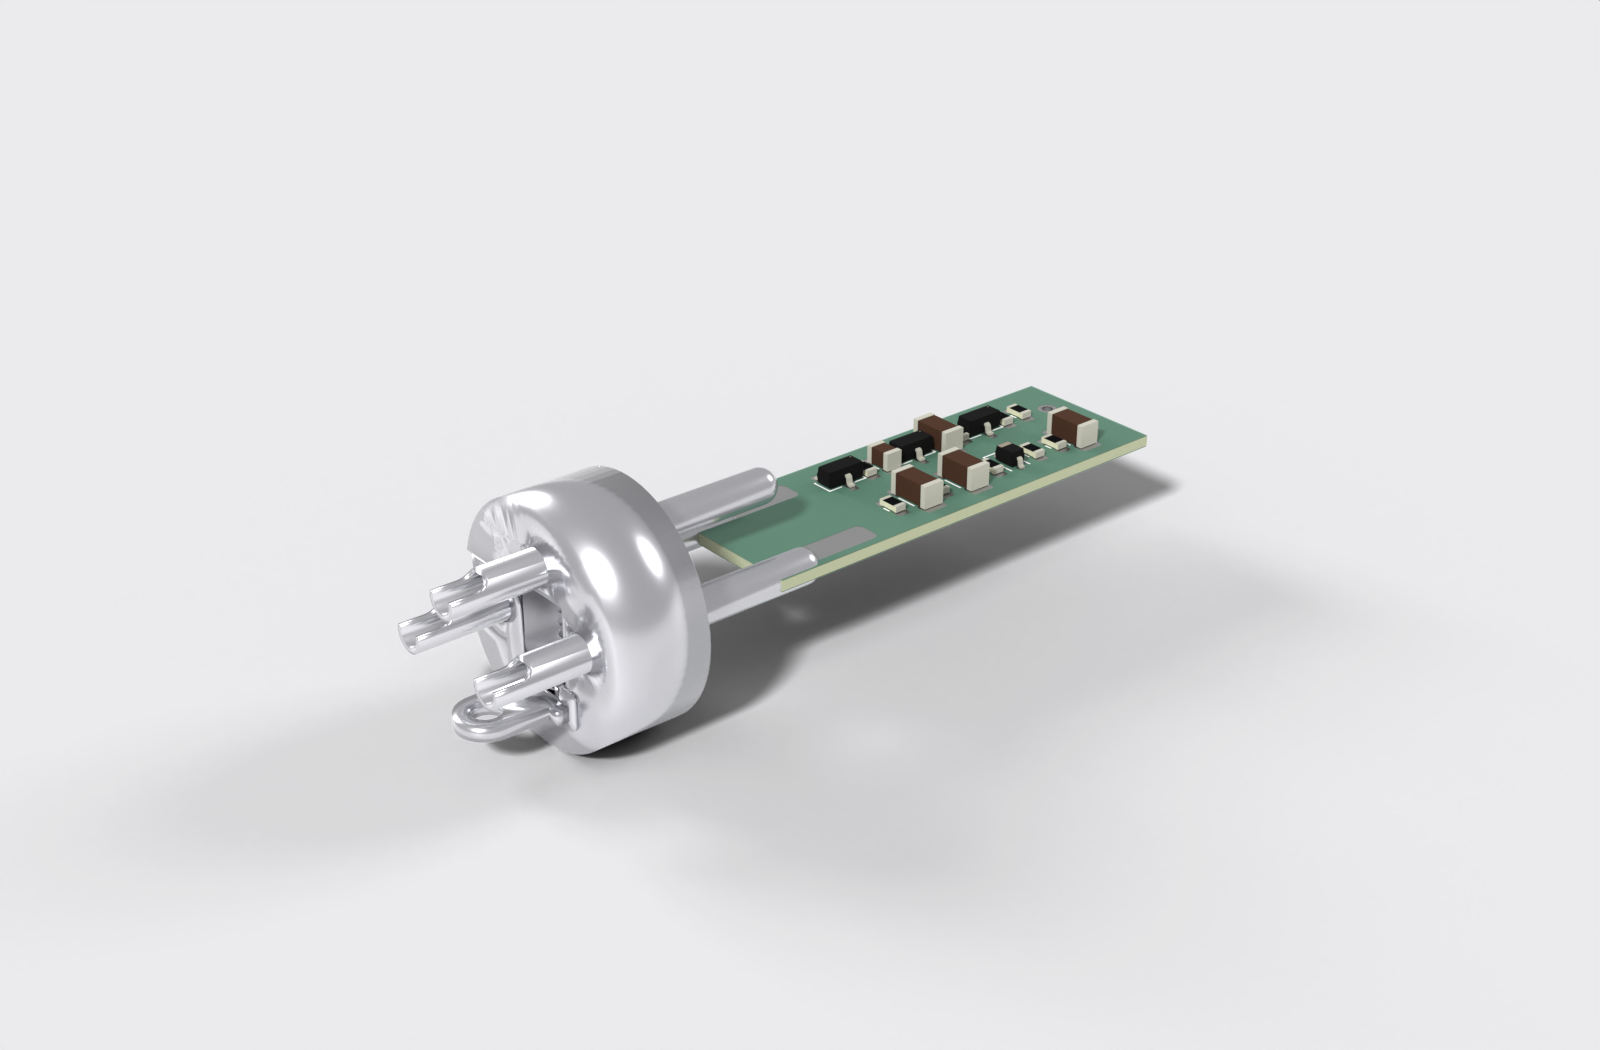
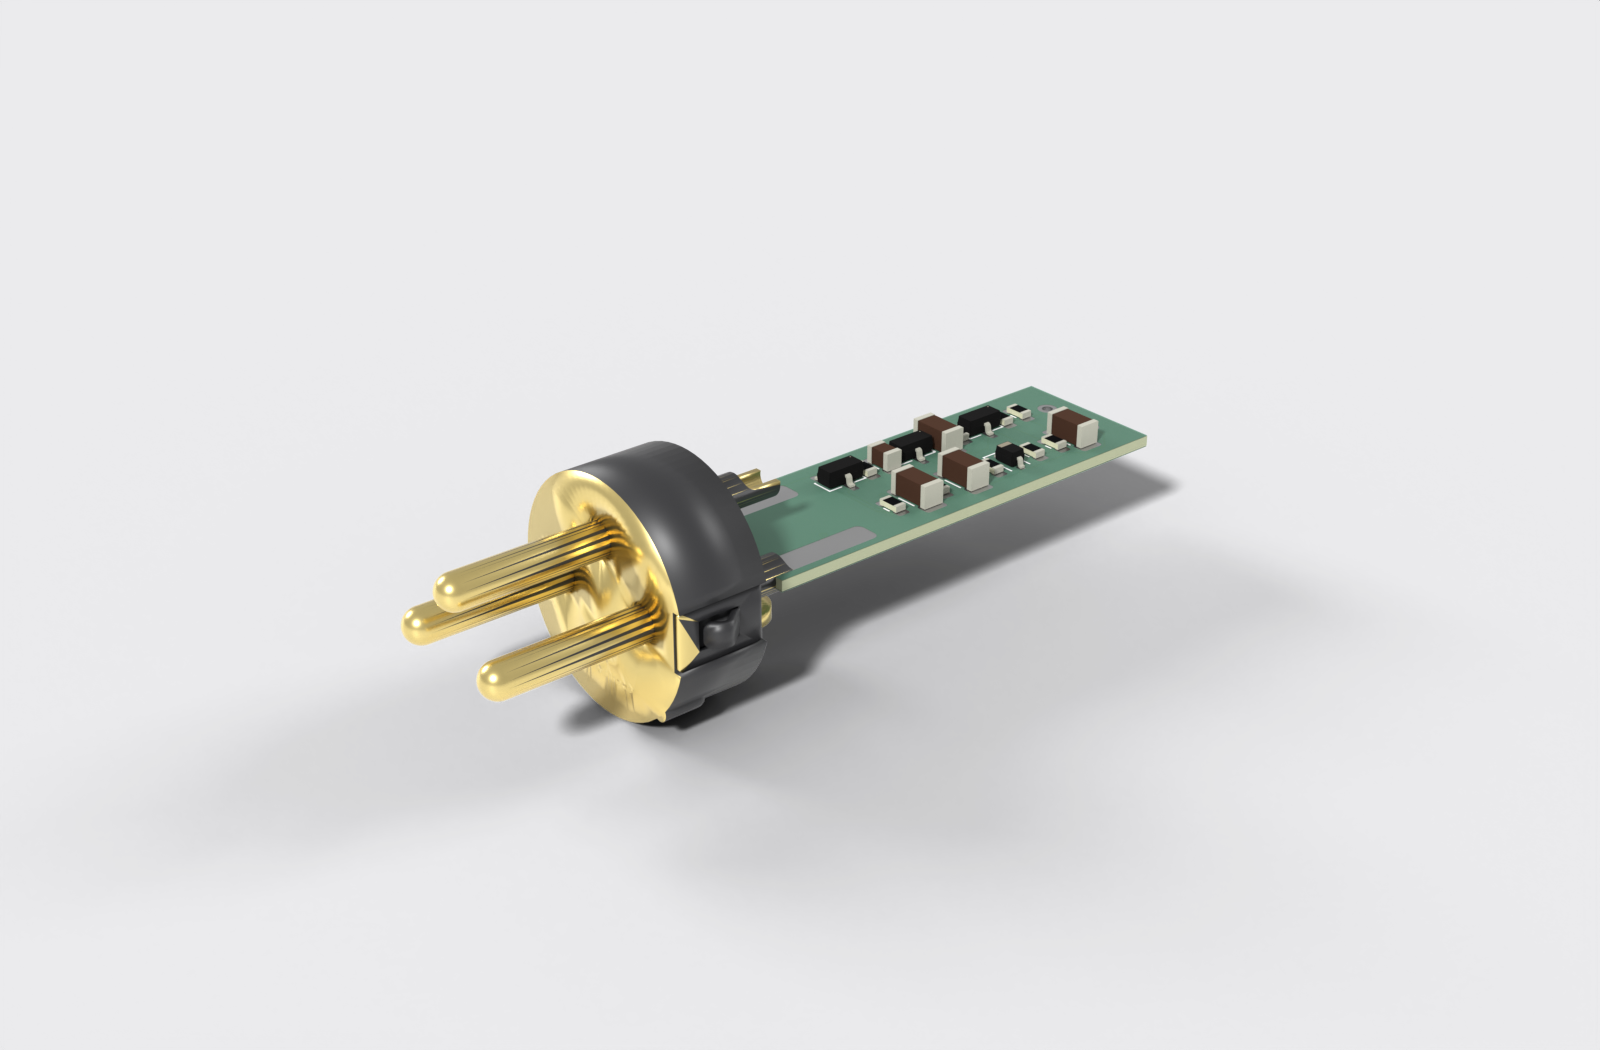
Recreate schematic as a proper wired diagram; fix connector render
- images/schematic.png: replace the net-label KiCad export (which read as
  "nothing connected") with a fully wired schematic drawn from netlist.py via
  schemdraw (scripts/gen_schematic.py) -> SVG -> PNG (Inkscape). Topology wired
  by transistor anchor, verified identical to the board netlist.
- images/board_with_connector.png: flip the XLR connector so the board is on the
  solder-cup end and the mating pins are free (they plug into the audio device);
  two-tone the connector black body / gold pins; render on the GPU (OptiX).

Changed region(s): [[0.25, 0.3962, 0.5312, 0.7314]]

diff --git a/scripts/gen_schematic.py b/scripts/gen_schematic.py
@@ -1,0 +1,165 @@
+#!/usr/bin/env python3
+"""
+Draw a properly wired schematic of the P48 -> 8V PIP adapter with schemdraw and
+save it to images/schematic.png (rasterized via Inkscape).  Every part is wired
+by transistor anchor (base/emitter/collector), so the topology matches
+netlist.py exactly:
+
+  GND    J1.1 MIC1.2 D1.A C1.2 C3.2 C4.2 C5.2 R4.2 R7.2 Q2.C Q3.C
+  P2     J1.2 R1.1                 P3   J1.3 R9.1 Q1.C R2.1
+  VPIP   Q1.E C1.1 C5.1 R10.1 R3.1 R6.1
+  VREF   R9.2 D1.K C4.1 R8.1       Q1B  R8.2 Q1.B
+  MICOUT MIC1.1 R10.2 C2.1
+  Q2B    R3.2 R4.1 C2.2 Q2.B       Q2E  R1.2 Q2.E
+  Q3B    R6.2 R7.1 C3.1 Q3.B       Q3E  R2.2 Q3.E
+
+    python scripts/gen_schematic.py
+"""
+import os
+import shutil
+import subprocess
+
+import schemdraw
+import schemdraw.elements as elm
+
+ROOT = os.path.dirname(os.path.dirname(os.path.abspath(__file__)))
+OUT = os.path.join(ROOT, "images", "schematic.png")
+
+INK = "#16232e"
+NET = "#8a1c1c"
+schemdraw.config(unit=2.6, fontsize=14, lw=2.0, color=INK)
+d = schemdraw.Drawing(show=False)
+
+RAIL_Y = 0.0
+BY = -3.4          # base / MICOUT row
+GNDY = -7.0
+
+
+def dot(p):
+    d.add(elm.Dot().at(p))
+
+
+def ground():                       # ground at the drawing cursor
+    d.add(elm.Ground())
+
+
+def ground_at(p):
+    d.add(elm.Ground().at(p))
+
+
+def buffer(bx, refs, sig=None):
+    """A common-collector buffer: R_bias divider from VPIP + R_emitter to a
+    phantom pin.  refs = (Rbias_hi, Rbias_lo, Q, Remit, phantom).  sig: a
+    callable drawing the base input (C-coupled signal or C to gnd)."""
+    rhi, rlo, q, remit, phantom = refs
+    dot((bx, BY))
+    dot((bx, RAIL_Y))
+    d.add(elm.Resistor().at((bx, RAIL_Y)).down().to((bx, BY)).label(rhi, "left"))
+    d.add(elm.Resistor().at((bx, BY)).down().to((bx, GNDY)).label(rlo, "left"))
+    ground()
+    if sig:
+        sig(bx)
+    d.add(elm.Line().at((bx, BY)).right().length(1.7))
+    t = elm.BjtPnp(circle=True).anchor("base")
+    d.add(t)
+    d.add(elm.Label().at((t.collector[0], BY + 1.7)).label(q, fontsize=13))
+    d.add(elm.Line().at(t.collector).down().to((t.collector[0], GNDY)))
+    ground()
+    d.add(elm.Line().at(t.emitter).right().length(0.5))
+    d.add(elm.Resistor().right().label(remit, "top"))
+    d.add(elm.Tag().right().label(phantom, color=NET))
+
+
+# ===========================================================================
+# XLR connector J1 (far left): pin1 GND, pin2 P2 (hot), pin3 P3 (cold)
+# ===========================================================================
+JX = -11.5
+d += elm.Label().at((JX + 0.3, 3.4)).label("J1  ·  Neutrik XLR3", fontsize=12, color="#555")
+for y, num, name in ((2.4, "2", "P2"), (0.8, "3", "P3")):
+    d += elm.Dot(open=True).at((JX, y))
+    d += elm.Line().right().length(1.4).label(num, "top", fontsize=11)
+    d += elm.Tag().label(name, color=NET)
+d += elm.Dot(open=True).at((JX, -0.9))
+d += elm.Line().right().length(1.1).label("1", "bottom", fontsize=11)
+d += elm.Ground()
+
+# ===========================================================================
+# REFERENCE + REGULATOR -> VPIP
+# ===========================================================================
+VX, VY = -5.8, 3.0
+d += elm.Tag().at((VX - 3.2, VY)).left().label("P3", color=NET)
+d += elm.Resistor().at((VX - 3.2, VY)).right().to((VX, VY)).label("R9\n100k")
+dot((VX, VY))
+d += elm.Label().at((VX - 0.15, VY + 1.5)).label("VREF", color=NET, fontsize=12)
+# D1 zener on a short stub to the left
+d += elm.Line().at((VX, VY)).left().length(1.2)
+d += elm.Zener().down().label("D1\n8.2V", "left").reverse()
+ground()
+# C4 straight down from VREF
+d += elm.Capacitor().at((VX, VY)).down().label("C4\n22µF", "right")
+ground()
+# R8 : VREF -> Q1 base
+d += elm.Resistor().at((VX, VY)).right().label("R8\n10k")
+d += (q1 := elm.BjtNpn(circle=True).anchor("base").label("Q1\nMMBT3904", "right"))
+d += elm.Line().at(q1.collector).up().length(1.8)
+d += elm.Tag().up().label("P3", color=NET)
+d += elm.Line().at(q1.emitter).down().to((q1.emitter[0], RAIL_Y))
+RX0 = q1.emitter[0]
+dot((RX0, RAIL_Y))
+
+# column positions (left -> right)
+MX = RX0 + 5.2          # MICOUT / capsule bias
+HBX = MX + 3.8          # hot buffer divider
+CBX = HBX + 8.6         # cold buffer divider
+RX1 = CBX + 1.4         # rail end
+
+# ===========================================================================
+# VPIP rail (real drawn bus) + bypass caps
+# ===========================================================================
+d += elm.Line().at((RX0, RAIL_Y)).to((RX1, RAIL_Y)).linewidth(3.2)
+d += elm.Vdd().at((RX0, RAIL_Y)).label("VPIP", color=NET)
+for dx, name in ((1.5, "C1\n22µF"), (3.0, "C5\n10µF")):
+    dot((RX0 + dx, RAIL_Y))
+    d += elm.Capacitor().at((RX0 + dx, RAIL_Y)).down().label(name, "left")
+    ground()
+
+# ===========================================================================
+# CAPSULE BIAS + HOT BUFFER
+# ===========================================================================
+dot((MX, RAIL_Y))
+d += elm.Resistor().at((MX, RAIL_Y)).down().to((MX, BY)).label("R10\n6.8k", "right")
+dot((MX, BY))
+d += elm.Label().at((MX - 0.15, BY + 0.75)).label("MICOUT", color=NET, fontsize=12)
+d += elm.Mic().at((MX, BY)).down()
+ground()
+d += elm.Label().at((MX - 1.15, BY - 1.7)).label("MIC1\nAOM-5024", fontsize=12)
+# C2 : MICOUT -> Q2 base
+d += elm.Capacitor().at((MX, BY)).right().to((HBX, BY)).label("C2\n22µF", "top")
+
+buffer(HBX, ("R3\n100k", "R4\n100k", "Q2\nMMBT3906", "R1\n10k", "P2"))
+
+# ===========================================================================
+# COLD BUFFER (impedance match); C3 AC-grounds the base
+# ===========================================================================
+def c3_to_gnd(bx):
+    d.add(elm.Line().at((bx, BY)).left().length(1.7))
+    d.add(elm.Capacitor().down().to((bx - 1.7, GNDY)).label("C3\n22µF", "left"))
+    d.add(elm.Ground())
+
+buffer(CBX, ("R6\n100k", "R7\n100k", "Q3\nMMBT3906", "R2\n10k", "P3"), sig=c3_to_gnd)
+
+d += elm.Label().at(((RX0 + RX1) / 2, GNDY - 1.4)).label(
+    "P48 → 8 V PIP adapter   ·   impedance-balanced two-transistor buffer   ·   "
+    "nets per netlist.py", fontsize=12, color="#666")
+
+# ---- save + rasterize ----
+SVG = os.path.splitext(OUT)[0] + ".svg"
+d.save(SVG)
+print("wrote", SVG)
+ink = shutil.which("inkscape") or r"C:\Program Files\Inkscape\bin\inkscape.exe"
+if os.path.exists(ink):
+    subprocess.run([ink, SVG, "--export-type=png", "--export-filename=" + OUT,
+                    "--export-width=2600", "--export-background=#ffffff"], check=True)
+    print("wrote", OUT)
+else:
+    print("Inkscape not found; wrote SVG only:", SVG)

diff --git a/scripts/render_connector_blender.py b/scripts/render_connector_blender.py
@@ -19,18 +19,33 @@ from mathutils import Vector, Matrix
 GLB, CONN_STL, OUT = sys.argv[-3], sys.argv[-2], sys.argv[-1]
 
 def envf(k, d): return float(os.environ.get(k, d))
-CONN_ROTX = envf("CROTX", "90")     # lay connector axis from Z to Y
-CONN_ROTY = envf("CROTY", "180")    # roll: 2 contacts to the top face
+CONN_ROTX = envf("CROTX", "-90")    # lay connector axis from Z to Y (solder-cup end toward board)
+CONN_ROTY = envf("CROTY", "0")      # roll about the connector axis
 CONN_ROTZ = envf("CROTZ", "0")
 CONN_Y    = envf("CY", "-24.5")     # connector position along the board axis
 CONN_Z    = envf("CZ", "0.4")       # board mid-plane
 CAM_AZ    = envf("AZ", "50")
 CAM_EL    = envf("EL", "27")
 SAMPLES   = int(envf("SPP", "220"))
+BODY_THR  = envf("BODYTHR", "0.62") # radial threshold for the black body band
 
 bpy.ops.wm.read_factory_settings(use_empty=True)
 sc = bpy.context.scene
 sc.render.engine = "CYCLES"; sc.cycles.samples = SAMPLES; sc.cycles.use_denoising = True
+# Use the GPU (OptiX/CUDA) if available -- big speedup on an NVIDIA card.
+try:
+    prefs = bpy.context.preferences.addons["cycles"].preferences
+    for backend in ("OPTIX", "CUDA", "HIP", "ONEAPI"):
+        devs = prefs.get_devices_for_type(backend)
+        if devs:
+            prefs.compute_device_type = backend
+            for dev in devs:
+                dev.use = dev.type != "CPU"
+            sc.cycles.device = "GPU"
+            print("Cycles GPU:", backend)
+            break
+except Exception as e:
+    print("GPU setup skipped:", e)
 sc.render.resolution_x, sc.render.resolution_y = 1600, 1050
 sc.view_settings.view_transform = "Standard"; sc.render.film_transparent = True
 world = bpy.data.worlds.new("W"); world.use_nodes = True
@@ -69,11 +84,53 @@ R = (Matrix.Rotation(math.radians(CONN_ROTZ), 4, 'Z') @
      Matrix.Rotation(math.radians(CONN_ROTX), 4, 'X'))
 conn.matrix_world = R @ conn.matrix_world
 conn.matrix_world = Matrix.Translation(Vector((0, CONN_Y, CONN_Z))) @ conn.matrix_world
-m = bpy.data.materials.new("chrome"); m.use_nodes = True
-b = m.node_tree.nodes["Principled BSDF"]
-b.inputs["Base Color"].default_value = (0.60, 0.60, 0.63, 1)
-b.inputs["Metallic"].default_value = 0.9; b.inputs["Roughness"].default_value = 0.25
-conn.data.materials.clear(); conn.data.materials.append(m)
+def pbr(name, color, metallic, rough):
+    mm = bpy.data.materials.new(name); mm.use_nodes = True
+    bb = mm.node_tree.nodes["Principled BSDF"]
+    bb.inputs["Base Color"].default_value = (*color, 1)
+    bb.inputs["Metallic"].default_value = metallic
+    bb.inputs["Roughness"].default_value = rough
+    return mm
+
+# Two-tone by geometry (the 3MF carries no per-part materials): the bulky
+# central collar is the black body; the contacts protruding at each axial end
+# are gold.  Classify each face by the mesh's local long axis (Z) -- faces in
+# the contiguous central high-radius band are body, the rest are contacts.
+BLACK = pbr("body_black", (0.022, 0.022, 0.024), 0.0, 0.42)
+GOLD = pbr("pins_gold", (0.83, 0.66, 0.26), 1.0, 0.28)
+me = conn.data
+vs = me.vertices
+x0 = sum(v.co.x for v in vs) / len(vs)
+y0 = sum(v.co.y for v in vs) / len(vs)
+zmin = min(v.co.z for v in vs); zmax = max(v.co.z for v in vs)
+N = 80
+import math as _m
+rad = [0.0] * N
+def _bin(z): return min(N - 1, max(0, int((z - zmin) / (zmax - zmin) * N)))
+for v in vs:
+    i = _bin(v.co.z); r = _m.hypot(v.co.x - x0, v.co.y - y0)
+    if r > rad[i]:
+        rad[i] = r
+thr = BODY_THR * max(rad)
+# contiguous band of high-radius bins around the centre = the collar/body
+c = N // 2
+while c > 0 and rad[c] < thr:
+    c += 1 if rad[min(c + 1, N - 1)] >= thr else -1
+    if c in (0, N - 1):
+        break
+lo = c
+while lo > 0 and rad[lo - 1] >= thr:
+    lo -= 1
+hi = c
+while hi < N - 1 and rad[hi + 1] >= thr:
+    hi += 1
+zlo = zmin + lo / N * (zmax - zmin)
+zhi = zmin + (hi + 1) / N * (zmax - zmin)
+me.materials.clear(); me.materials.append(BLACK); me.materials.append(GOLD)
+for p in me.polygons:
+    zc = sum(vs[i].co.z for i in p.vertices) / len(p.vertices)
+    p.material_index = 0 if zlo <= zc <= zhi else 1
+me.update()
 bpy.context.view_layer.update()
 
 # shadow-catcher floor at the lowest point

diff --git a/README.md b/README.md
@@ -102,12 +102,12 @@ not part of this design and is not redistributed.</sub>
 
 ## Schematic
 
-Connectivity is defined by **net labels** (each pin carries its net name), so
-the circuit is read by net rather than by drawn wires. The authoritative,
-machine-readable net list lives in [`netlist.py`](netlist.py) and is tabulated
-in [SPEC.md](SPEC.md); the KiCad schematic (`p48_pip_adapter.kicad_sch`) and the
-board are both generated from it, and its exported netlist is identical to the
-board's. ERC: 0 errors.
+The full circuit, drawn from [`netlist.py`](netlist.py) — the single source of
+truth. On the left, the capacitance-multiplier reference/regulator (D1 zener,
+R9/C4 sub-1 Hz filter, Q1 emitter follower) produces the clean **VPIP** rail; R10
+biases the capsule; and the two impedance-matched PNP emitter followers (Q2 hot,
+Q3 cold) draw the balanced ~3 mA per phantom pin. Every net matches the board —
+the exported KiCad netlist is identical. ERC: 0 errors.
 
 ![Schematic](images/schematic.png)
 
@@ -191,7 +191,8 @@ python scripts/render_previews.py   # regenerate the images/ previews
   board to GLB, imports a bare XLR connector model from `reference/` (`.3mf`
   auto-converted by `tmf2stl.py`), and renders the pair in Blender. The
   connector model is third-party and not shipped (see `reference/SOURCES.txt`).
-- The schematic image is `kicad-cli sch export svg` of `p48_pip_adapter.kicad_sch`.
+- **`scripts/gen_schematic.py`** — the wired schematic image, drawn from
+  `netlist.py` with schemdraw (SVG → PNG via Inkscape).
 
 ### Toolchain
 